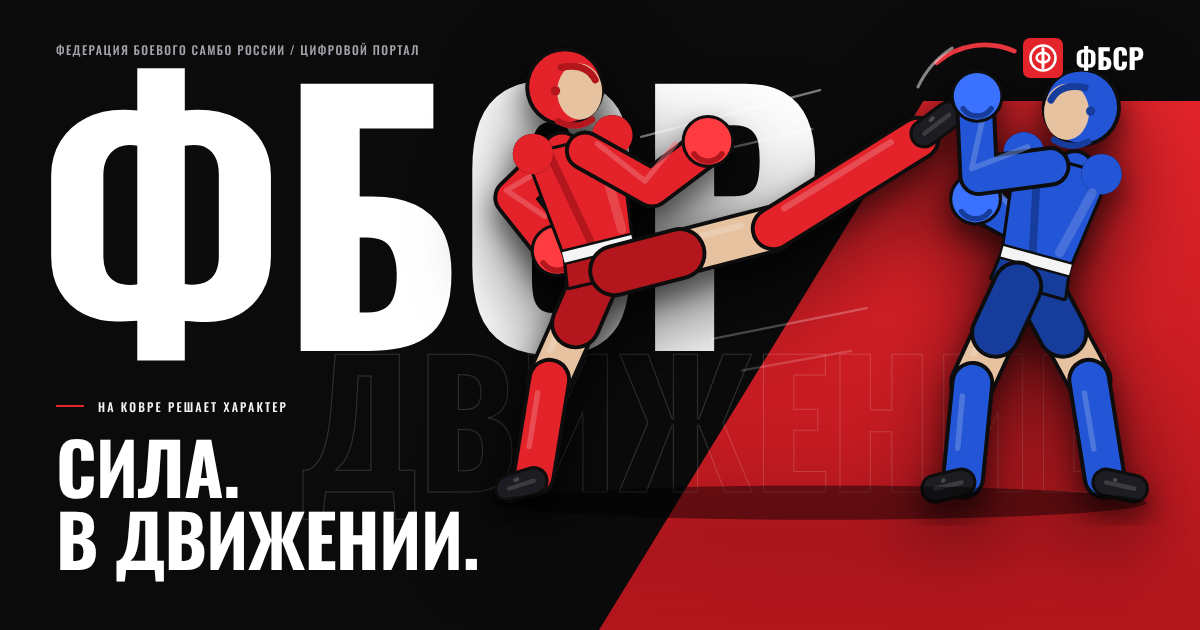
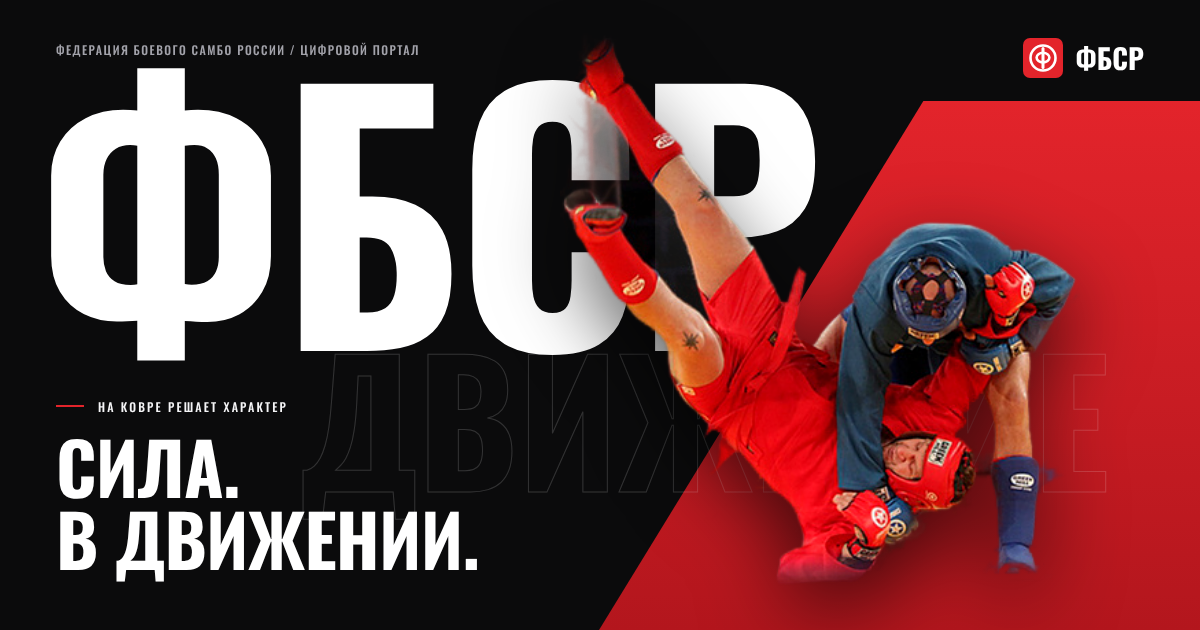
Hero с реальными фото боевого самбо вместо иллюстрации
- На главной: вырезанное фото броска поверх букв и красной диагонали,
  как на утверждённом макете; мягкие края, тень, лёгкая цветокоррекция
- В шапке раздела «Соревнования»: вырезанное фото удара ногой
- Исходные фото в карточках новостей, галерее и видеоплитках
- Обновлена OG-картинка, убрана старая векторная иллюстрация
- README: как заменить фото и требования к разрешению

Claude-Session: https://claude.ai/code/session_01J2QHFTbKmJovz3n8Evufan

diff --git a/assets/css/main.css b/assets/css/main.css
@@ -164,10 +164,10 @@ table { border-collapse: collapse; width: 100%; }
   will-change: transform;
 }
 .hero__art {
-  position: absolute; z-index: 4; left: 41%; top: 5%; width: 53%; aspect-ratio: 900 / 650; pointer-events: none;
+  position: absolute; z-index: 4; left: 46%; top: 2%; height: 78%; aspect-ratio: 379 / 408; pointer-events: none;
   will-change: transform;
 }
-.hero__art img { width: 100%; height: 100%; object-fit: contain; filter: drop-shadow(0 30px 40px rgba(0,0,0,.6)); }
+.hero__art img { width: 100%; height: 100%; object-fit: contain; object-position: bottom; filter: contrast(1.06) saturate(1.08) drop-shadow(0 30px 40px rgba(0,0,0,.65)); }
 .hero__bottom {
   position: absolute; z-index: 5; left: 0; right: 0; bottom: 74px;
   display: grid; grid-template-columns: 1.2fr 1fr auto; gap: 40px; align-items: end;
@@ -280,6 +280,9 @@ table { border-collapse: collapse; width: 100%; }
   linear-gradient(160deg, var(--bg-4), var(--bg-2)); }
 .ph__word { position: relative; z-index: 1; font-family: var(--font-display); font-weight: 700; font-size: clamp(40px, 6vw, 88px); text-transform: uppercase; color: rgba(255,255,255,.07); letter-spacing: .02em; }
 .ph__tag { position: absolute; z-index: 1; left: 16px; bottom: 14px; }
+.ph--img img { position: absolute; inset: 0; width: 100%; height: 100%; object-fit: cover; transition: transform .6s var(--ease); }
+.ph--img::before { z-index: 1; background: linear-gradient(180deg, rgba(11,11,12,0) 40%, rgba(11,11,12,.85)); }
+.ph--img:hover img { transform: scale(1.04); }
 .ph__play { position: absolute; z-index: 2; inset: 0; margin: auto; width: 72px; height: 72px; border-radius: 50%; background: var(--red); display: grid; place-items: center; }
 .ph__play svg { width: 26px; height: 26px; margin-left: 4px; }
 .news__body { padding: 24px; }
@@ -309,6 +312,10 @@ table { border-collapse: collapse; width: 100%; }
 .page-hero { position: relative; overflow: hidden; padding: clamp(56px, 8vw, 120px) 0 clamp(40px, 5vw, 72px); border-bottom: 1px solid var(--line); isolation: isolate; }
 .page-hero::before { content: attr(data-word); position: absolute; z-index: -1; right: -2%; top: 50%; transform: translateY(-50%); white-space: nowrap; font-family: var(--font-display); font-weight: 700; text-transform: uppercase; font-size: clamp(100px, 18vw, 280px); line-height: 1; color: transparent; -webkit-text-stroke: 1px rgba(255,255,255,.1); pointer-events: none; }
 .page-hero::after { content: ""; position: absolute; z-index: -2; right: -10%; top: 0; bottom: 0; width: 38%; background: linear-gradient(180deg, var(--red), var(--red-d)); clip-path: polygon(55% 0, 100% 0, 100% 100%, 0 100%); opacity: .9; }
+.page-hero__art { position: absolute; z-index: -1; right: 4%; bottom: 0; height: 112%; max-height: 520px; pointer-events: none; }
+.page-hero__art img { height: 100%; width: auto; object-fit: contain; filter: contrast(1.06) saturate(1.08) drop-shadow(0 24px 30px rgba(0,0,0,.6)); }
+.page-hero--art { min-height: 420px; }
+.page-hero--art .lead { max-width: 44ch; }
 .page-hero h1 { margin-top: 20px; }
 .page-hero .lead { margin-top: 20px; }
 .breadcrumbs { display: flex; gap: 10px; flex-wrap: wrap; font-family: var(--font-display); font-size: 12px; letter-spacing: .14em; text-transform: uppercase; color: var(--muted); margin-bottom: 24px; }
@@ -492,7 +499,7 @@ table { border-collapse: collapse; width: 100%; }
   .hero__meta--right { margin-top: -39px; justify-content: flex-end; }
   .hero__word { position: relative; left: 0; top: 0; margin-top: 24px; font-size: clamp(120px, 29vw, 260px); }
   .hero__ghost { left: 10%; top: 38%; font-size: clamp(64px, 16vw, 140px); }
-  .hero__art { position: relative; left: auto; top: auto; width: 100%; max-width: 640px; margin: -10% 0 0 auto; aspect-ratio: 900 / 650; }
+  .hero__art { position: relative; left: auto; top: auto; height: auto; width: min(100%, 520px); margin: -12% 0 0 auto; aspect-ratio: 379 / 408; }
   .hero__red { inset: 22% -20% 0 0; clip-path: polygon(70% 0, 100% 0, 100% 100%, 40% 100%); }
   .hero__bottom { position: relative; bottom: auto; grid-template-columns: 1fr; gap: 24px; margin-top: 24px; }
   .hero__text { max-width: 44ch; }
@@ -508,6 +515,7 @@ table { border-collapse: collapse; width: 100%; }
   .event-row { grid-template-columns: 1fr; gap: 10px; }
   .event-row__actions { text-align: left; }
   .cookie { grid-template-columns: 1fr; }
+  .page-hero__art { height: 80%; right: -6%; opacity: .55; }
 }
 @media (max-width: 640px) {
   .grid--2, .grid--3, .grid--4 { grid-template-columns: 1fr; }
@@ -517,6 +525,7 @@ table { border-collapse: collapse; width: 100%; }
   .hero__title { font-size: 44px; }
   .hero__word { font-size: clamp(110px, 32vw, 180px); }
   .hero__ghost { display: none; }
+  .page-hero__art { display: none; }
   .hero__art { margin-top: -6%; }
   .event { grid-template-columns: 72px 1fr; gap: 16px; }
   .event__day { font-size: 36px; }

diff --git a/index.html b/index.html
@@ -59,7 +59,7 @@
     <div class="hero__ghost" data-parallax="-30" data-mouse="6" aria-hidden="true">Движение</div>
     <div class="hero__word" data-parallax="-90" data-mouse="4" aria-hidden="true">ФБСР</div>
     <div class="hero__art" data-parallax="-150" data-mouse="16" data-scale="0.06">
-      <img src="assets/img/hero-fighters.svg" width="900" height="650" alt="Боевое самбо: спортсмен в красной форме наносит удар ногой, спортсмен в синей форме ставит блок" fetchpriority="high">
+      <img src="assets/img/hero-throw.png" width="379" height="408" alt="Боевое самбо: бросок в поединке, спортсмены в красной и синей форме" fetchpriority="high">
     </div>
 
     <div class="hero__bottom">
@@ -74,7 +74,7 @@
       </div>
     </div>
     <div class="hero__scroll mono"><span class="hero__scroll-box" aria-hidden="true"><i></i></span>Листайте — сцена в движении</div>
-    <div class="hero__credit mono">Авторская иллюстрация / Demo</div>
+    <div class="hero__credit mono">Фото: архив федерации / Demo</div>
   </div>
 </section>
 
@@ -180,7 +180,7 @@
     </div>
     <div class="grid grid--3">
       <article class="card card--link news reveal">
-        <div class="ph"><span class="ph__word">Сборная</span><span class="badge ph__tag">Сборные</span></div>
+        <div class="ph ph--img"><img src="assets/img/photos/kick.jpg" alt="" loading="lazy"><span class="badge ph__tag">Сборные</span></div>
         <div class="news__body"><span class="mono news__date">12.10.2026</span><h3>Сборная России утвердила состав на международный сезон</h3><p>Тренерский штаб назвал 28 спортсменов основного состава и резерв.</p><a class="link-arrow" href="teams.html">Читать</a></div>
       </article>
       <article class="card card--link news reveal">
@@ -202,8 +202,8 @@
       <a class="link-arrow" href="media.html">Медиацентр</a>
     </div>
     <div class="gallery reveal">
-      <a class="ph" href="media.html#video" aria-label="Смотреть видео: финалы чемпионата России"><span class="ph__word">Финал</span><span class="ph__play"><svg><use href="#i-play"/></svg></span><span class="badge ph__tag">Видео</span></a>
-      <a class="ph" href="media.html#photo"><span class="ph__word">01</span><span class="badge ph__tag">Фото</span></a>
+      <a class="ph ph--img" href="media.html#video" aria-label="Смотреть видео: финалы чемпионата России"><img src="assets/img/photos/throw.jpg" alt="Бросок в финальном поединке" loading="lazy"><span class="ph__play"><svg><use href="#i-play"/></svg></span><span class="badge ph__tag">Видео</span></a>
+      <a class="ph ph--img" href="media.html#photo"><img src="assets/img/photos/kick.jpg" alt="Удар ногой в стойке" loading="lazy"><span class="badge ph__tag">Фото</span></a>
       <a class="ph" href="media.html#photo"><span class="ph__word">02</span><span class="badge ph__tag">Фото</span></a>
       <a class="ph" href="media.html#photo"><span class="ph__word">03</span><span class="badge ph__tag">Фото</span></a>
       <a class="ph" href="media.html#photo"><span class="ph__word">04</span><span class="badge ph__tag">Фото</span></a>

diff --git a/media.html b/media.html
@@ -74,8 +74,8 @@
       </div>
     </div>
     <div id="gallery" data-filterable class="gallery reveal">
-      <a class="ph" href="#" data-item data-ev="chr"><span class="ph__word">Финал</span><span class="badge ph__tag">ЧР 2026</span></a>
-      <a class="ph" href="#" data-item data-ev="chr"><span class="ph__word">01</span><span class="badge ph__tag">ЧР 2026</span></a>
+      <a class="ph ph--img" href="#" data-item data-ev="chr"><img src="assets/img/photos/throw.jpg" alt="Бросок в финале" loading="lazy"><span class="badge ph__tag">ЧР 2026</span></a>
+      <a class="ph ph--img" href="#" data-item data-ev="chr"><img src="assets/img/photos/kick.jpg" alt="Удар ногой" loading="lazy"><span class="badge ph__tag">ЧР 2026</span></a>
       <a class="ph" href="#" data-item data-ev="cup"><span class="ph__word">02</span><span class="badge ph__tag">Кубок</span></a>
       <a class="ph" href="#" data-item data-ev="team"><span class="ph__word">03</span><span class="badge ph__tag">Сборная</span></a>
       <a class="ph" href="#" data-item data-ev="chr"><span class="ph__word">04</span><span class="badge ph__tag">ЧР 2026</span></a>
@@ -96,11 +96,11 @@
     </div>
     <div class="grid grid--3">
       <article class="card news reveal">
-        <a class="ph" href="#" aria-label="Смотреть: финалы чемпионата России 2026"><span class="ph__word">ЧР</span><span class="ph__play"><svg><use href="#i-play"/></svg></span><span class="badge ph__tag">1:42:10</span></a>
+        <a class="ph ph--img" href="#" aria-label="Смотреть: финалы чемпионата России 2026"><img src="assets/img/photos/throw.jpg" alt="" loading="lazy"><span class="ph__play"><svg><use href="#i-play"/></svg></span><span class="badge ph__tag">1:42:10</span></a>
         <div class="news__body"><span class="mono news__date">17.05.2026</span><h3>Финалы чемпионата России — 2026</h3><p>Все 14 финальных поединков, день 4.</p></div>
       </article>
       <article class="card news reveal">
-        <a class="ph" href="#" aria-label="Смотреть: лучшие моменты Кубка ФБСР"><span class="ph__word">Кубок</span><span class="ph__play"><svg><use href="#i-play"/></svg></span><span class="badge ph__tag">6:30</span></a>
+        <a class="ph ph--img" href="#" aria-label="Смотреть: лучшие моменты Кубка ФБСР"><img src="assets/img/photos/kick.jpg" alt="" loading="lazy"><span class="ph__play"><svg><use href="#i-play"/></svg></span><span class="badge ph__tag">6:30</span></a>
         <div class="news__body"><span class="mono news__date">08.06.2026</span><h3>Лучшие моменты Кубка ФБСР</h3><p>Нокауты, болевые и броски турнира в Сочи.</p></div>
       </article>
       <article class="card news reveal">

diff --git a/competitions.html b/competitions.html
@@ -50,7 +50,8 @@
   </div>
 </header>
 <main id="main">
-<section class="page-hero" data-word="Турниры">
+<section class="page-hero page-hero--art" data-word="Турниры">
+  <div class="page-hero__art" aria-hidden="true"><img src="assets/img/hero-kick.png" width="341" height="317" alt=""></div>
   <div class="container">
     <ul class="breadcrumbs"><li><a href="index.html">Главная</a></li><li>Соревнования</li></ul>
     <span class="eyebrow">Сезон 2026 / 2027</span>
